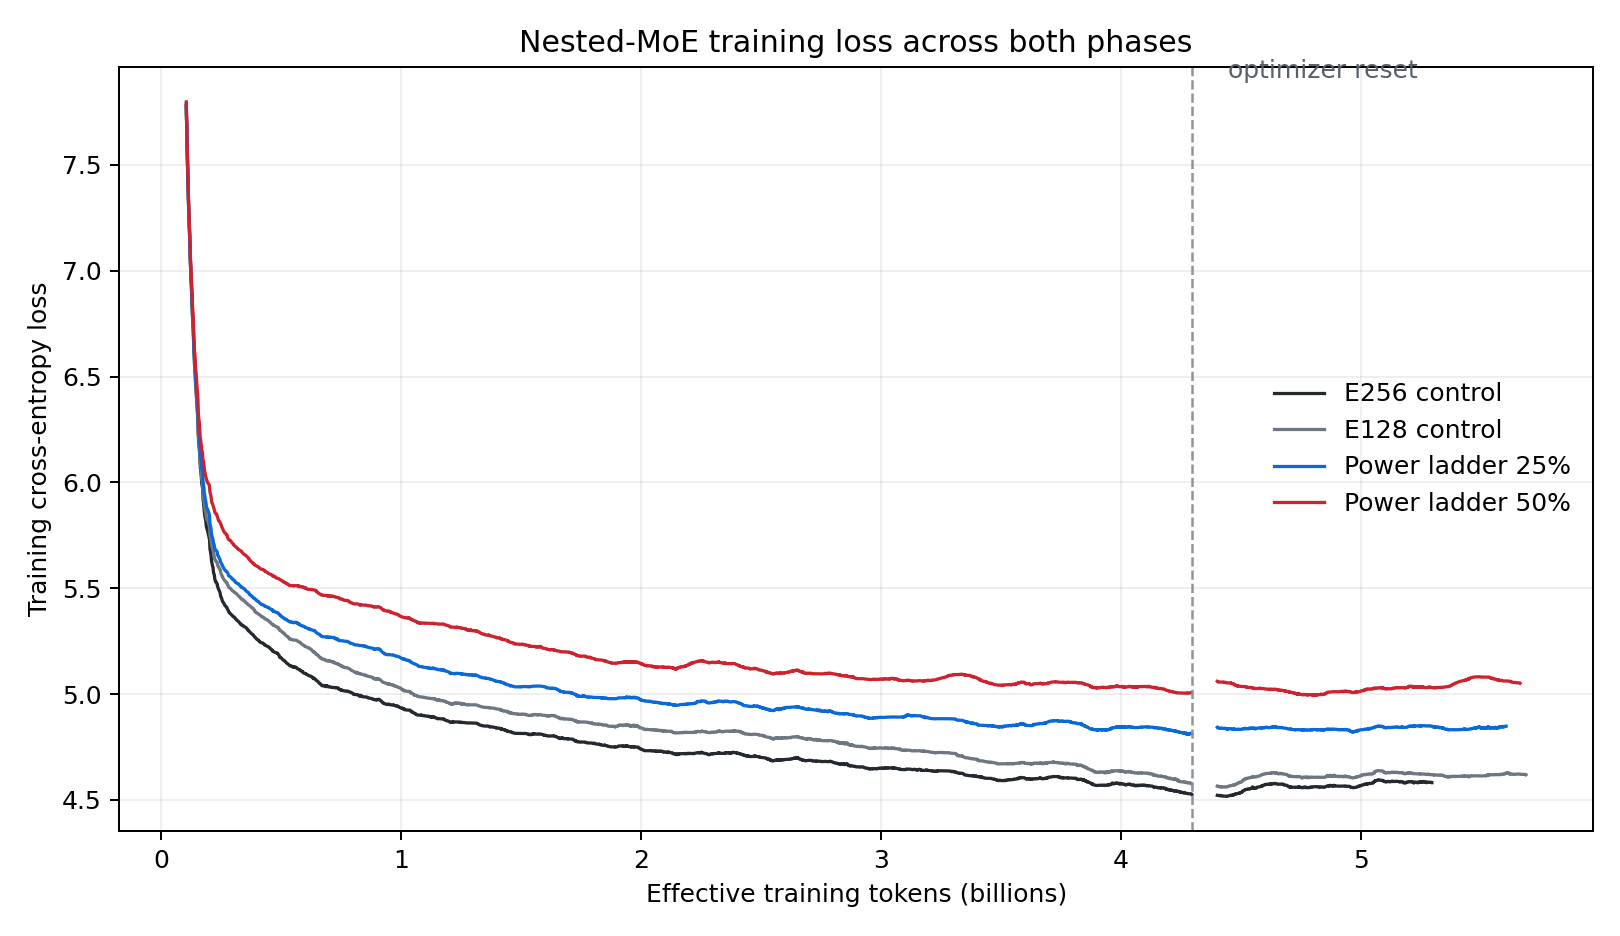
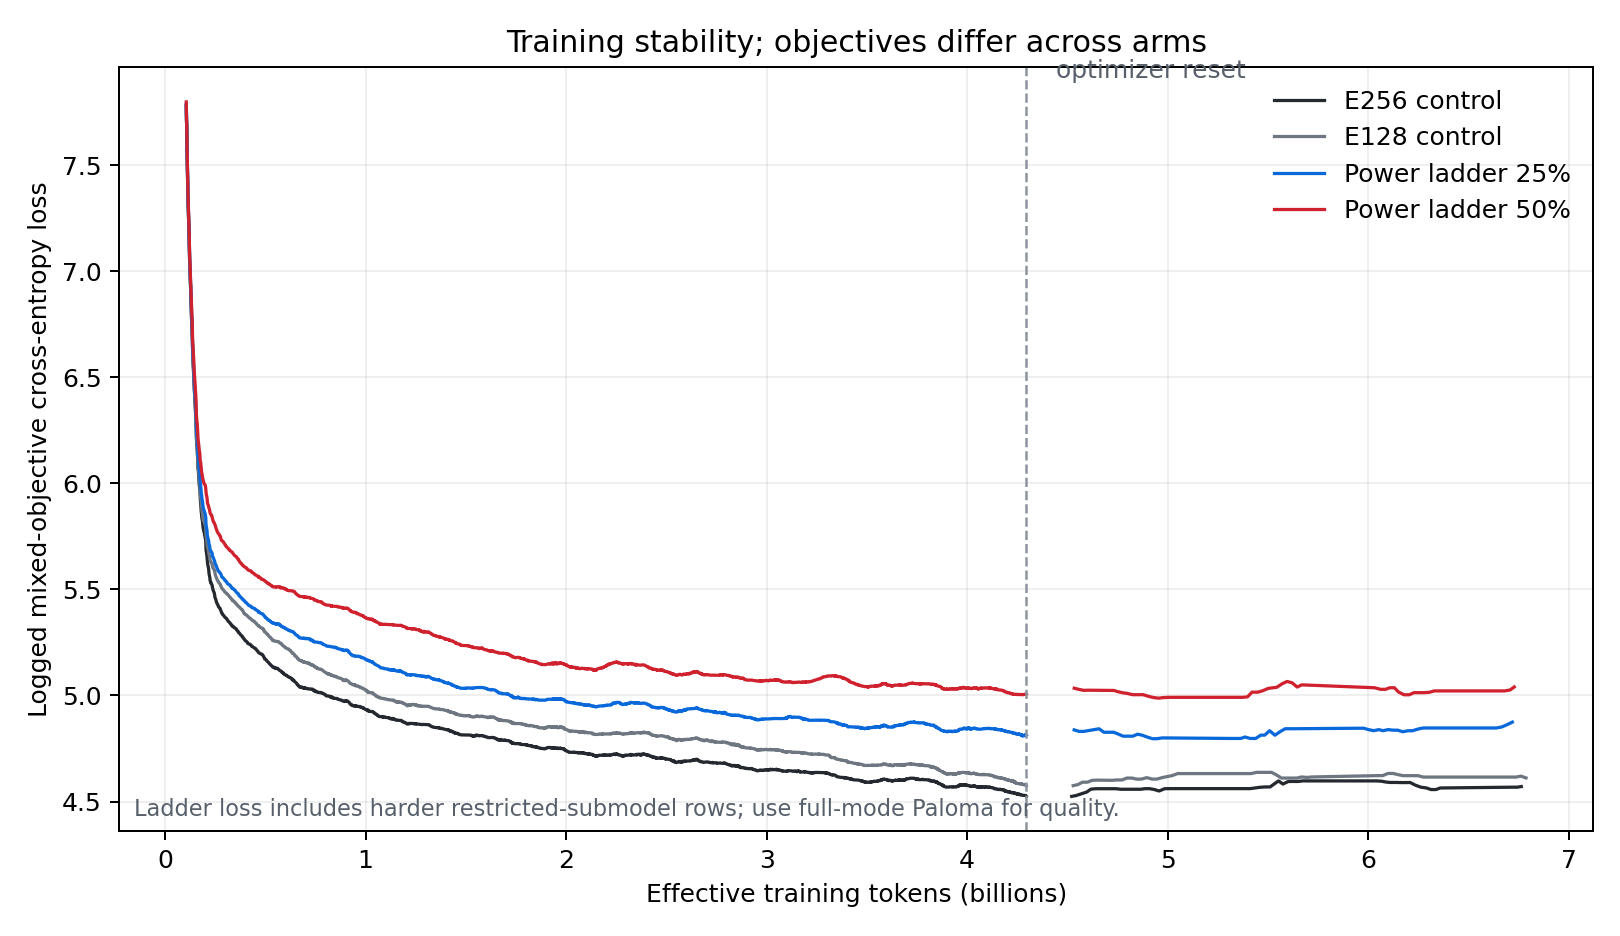
Clarify nested MoE interim quality metrics

diff --git a/scripts/training/analyze_nested_moe_continuation.py b/scripts/training/analyze_nested_moe_continuation.py
@@ -29,6 +29,7 @@ GPU_COUNT = 64
 TIMING_WARMUP_STEPS = 1024
 TIMING_BLOCK_STEPS = 200
 OUTPUT_DIR = Path("docs/reports/assets")
+TELLTALE_CSV = OUTPUT_DIR / "nested-model-training-final-telltale.csv"
 
 GLOBAL_STEP = "global_step"
 TRAIN_LOSS = "train/loss"
@@ -122,10 +123,11 @@ def histories(
 
 
 def block_bootstrap_ci(values: list[HistoryPoint]) -> tuple[float, float]:
+    block_steps = TIMING_BLOCK_STEPS if len(values) >= 1000 else 10
     blocks = [
-        [point.value for point in values[index : index + TIMING_BLOCK_STEPS]]
-        for index in range(0, len(values), TIMING_BLOCK_STEPS)
-        if len(values[index : index + TIMING_BLOCK_STEPS]) == TIMING_BLOCK_STEPS
+        [point.value for point in values[index : index + block_steps]]
+        for index in range(0, len(values), block_steps)
+        if len(values[index : index + block_steps]) == block_steps
     ]
     if len(blocks) < 2:
         return math.nan, math.nan
@@ -152,6 +154,29 @@ def timing_summary(duration: list[HistoryPoint]) -> TimingSummary:
         block_bootstrap_ci95_low=ci_low,
         block_bootstrap_ci95_high=ci_high,
     )
+
+
+def telltale_histories() -> dict[str, dict[str, list[HistoryPoint]]]:
+    """Load task-zero scalar snapshots exported from durable finelog."""
+    run_to_arm = {run_name: arm for arm, run_name in CONTINUATION_RUNS.items()}
+    metric_columns = {
+        "train_loss": "loss",
+        "duration": "duration",
+        "tokens_per_second": "tokens_per_second",
+        "hook": "hook",
+        "loading": "loading",
+        "overflow": "overflow",
+    }
+    values = {arm: {metric: [] for metric in metric_columns} for arm in CONTINUATION_RUNS}
+    with TELLTALE_CSV.open(newline="") as input_file:
+        for row in csv.DictReader(input_file):
+            arm = run_to_arm[row["run"]]
+            step = int(float(row["step"]))
+            for metric, column in metric_columns.items():
+                value = row.get(column)
+                if value:
+                    values[arm][metric].append(HistoryPoint(step=step, value=float(value)))
+    return values
 
 
 def rolling_median(points: list[HistoryPoint], window: int) -> tuple[list[int], list[float]]:
@@ -189,7 +214,10 @@ def plot_loss(
     fig, axis = plt.subplots(figsize=(9, 5.2))
     for arm in BASE_RUNS:
         base_steps, base_values = rolling_median(base_histories[arm]["train_loss"], 200)
-        continuation_steps, continuation_values = rolling_median(continuation_histories[arm]["train_loss"], 200)
+        continuation_window = 200 if len(continuation_histories[arm]["train_loss"]) >= 5000 else 10
+        continuation_steps, continuation_values = rolling_median(
+            continuation_histories[arm]["train_loss"], continuation_window
+        )
         axis.plot(
             [(step + 1) * TOKENS_PER_STEP / 1e9 for step in base_steps],
             base_values,
@@ -207,8 +235,16 @@ def plot_loss(
     axis.axvline(boundary, color="#8c959f", linestyle="--", linewidth=1)
     axis.text(boundary + 0.15, axis.get_ylim()[1] - 0.05, "optimizer reset", color="#57606a")
     axis.set_xlabel("Effective training tokens (billions)")
-    axis.set_ylabel("Training cross-entropy loss")
-    axis.set_title("Nested-MoE training loss across both phases")
+    axis.set_ylabel("Logged mixed-objective cross-entropy loss")
+    axis.set_title("Training stability; objectives differ across arms")
+    axis.text(
+        0.01,
+        0.02,
+        "Ladder loss includes harder restricted-submodel rows; use full-mode Paloma for quality.",
+        transform=axis.transAxes,
+        color="#57606a",
+        fontsize=9,
+    )
     axis.grid(alpha=0.2)
     axis.legend(frameon=False)
     fig.tight_layout()
@@ -220,7 +256,8 @@ def plot_timing(continuation_histories: Mapping[str, Mapping[str, list[HistoryPo
     fig, axis = plt.subplots(figsize=(9, 5.2))
     for arm in CONTINUATION_RUNS:
         points = [point for point in continuation_histories[arm]["duration"] if point.step >= TIMING_WARMUP_STEPS]
-        steps, values = rolling_median(points, 200)
+        window = 200 if len(points) >= 5000 else 10
+        steps, values = rolling_median(points, window)
         axis.plot(steps, values, color=COLORS[arm], label=LABELS[arm])
     axis.set_xlabel("Continuation optimizer step")
     axis.set_ylabel("Step compute time (seconds)")
@@ -306,7 +343,7 @@ def runtime_forecasts(median_step: float) -> dict[str, dict[str, float | int]]:
 
 
 def training_loss_projection(points: list[HistoryPoint]) -> dict[str, Any]:
-    block_size = 200
+    block_size = 200 if len(points) >= 5000 else 20
     blocks = [
         points[index : index + block_size]
         for index in range(0, len(points), block_size)
@@ -384,6 +421,14 @@ def main() -> None:
     continuation_histories = {
         arm: histories(run, {**common_metrics, **nested_metrics}) for arm, run in continuation_runs.items()
     }
+    telemetry_source = "wandb"
+    if TELLTALE_CSV.exists():
+        telemetry_source = "finelog_telltale_task_zero"
+        fallback = telltale_histories()
+        for arm in CONTINUATION_RUNS:
+            for metric, points in fallback[arm].items():
+                if points:
+                    continuation_histories[arm][metric] = points
     timings = {arm: timing_summary(continuation_histories[arm]["duration"]) for arm in CONTINUATION_RUNS}
     control_step = timings["large_control"].median_step_seconds
 
@@ -428,6 +473,7 @@ def main() -> None:
         "base_steps": BASE_STEPS,
         "continuation_steps": CONTINUATION_STEPS,
         "gpu_count_per_arm": GPU_COUNT,
+        "continuation_telemetry_source": telemetry_source,
         "initialization": {
             "mode": "weights_only",
             "optimizer": "fresh",

diff --git a/.agents/logbooks/652-nested-model-training.md b/.agents/logbooks/652-nested-model-training.md
@@ -848,3 +848,21 @@ launch:
   At this early point the nested arms are within measurement noise of E256
   (`-0.55%` and `-0.60%`), while E128 is `+2.11%`. Final cost estimates will
   use the full steady-state histories.
+
+### 2026-07-27 17:46 - E256 W&B tail has durable fallbacks
+
+- The E256 W&B uploader reported a fatal network upload error after phase step
+  1,906. Training continued normally past step 3,000; the other three W&B
+  uploaders remained current.
+- Levanter's telltale tracker continued mirroring the same scalar metrics into
+  durable finelog. A four-arm query recovered global step, loss, step duration,
+  tokens/s, and routing overflow from task index zero. Finelog's early sampled
+  medians after step 1,024 were `0.2130 s`, `0.2176 s`, `0.2123 s`, and
+  `0.2124 s` for E256, E128, ladder25, and ladder50.
+- The E256 task-zero pod also retains its append-only local W&B run file under
+  `/app/wandb`; it was 204 MiB while training at roughly step 3,500. Copy it
+  with `kubectl cp` near the end of training and sync it after completion if
+  the uploader does not recover.
+- This is a reporting-path incident, not an architecture or training failure.
+  Finelog is sufficient for the continuous cost series even if W&B repair
+  fails.

diff --git a/docs/reports/nested-model-training-interim.md b/docs/reports/nested-model-training-interim.md
@@ -234,7 +234,13 @@ median post-warmup step times of 213.36 ms for E256, 217.61 ms for E128,
 E256, the nested arms were -0.51% and -0.59%; this is evidence of no measurable
 surcharge, not evidence that masking makes the matrix multiply faster.
 
-![Live training loss across the original and weights-only continuation phases.](assets/nested-model-training-final-loss.png)
+![Full-mode Paloma through the 4.3B-token phase boundary. This is the
+standardized cross-arm quality comparison; lower is
+better.](assets/nested-model-training-final-paloma.png)
+
+![Mixed-objective training loss across the original and weights-only
+continuation phases. Ladder heights are not comparable to the controls because
+they include restricted-submodel rows.](assets/nested-model-training-final-loss.png)
 
 The live W&B runs are
 [E256 control](https://wandb.ai/marin-community/marin_moe/runs/nest-moe-001-full-d768-s2048-e256-extend16b-r31),
